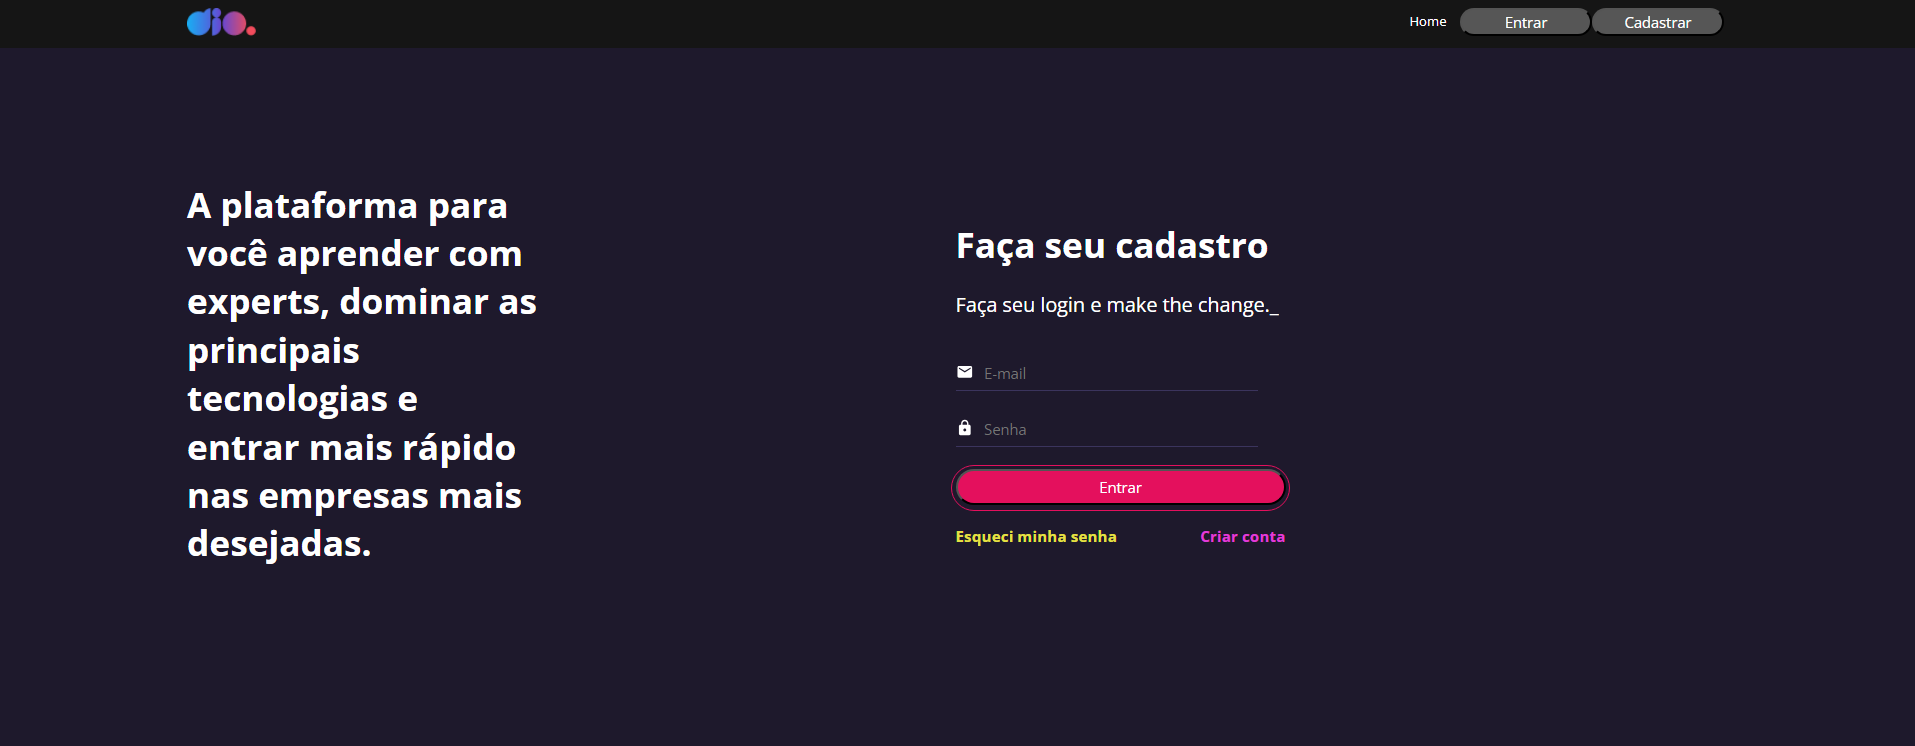
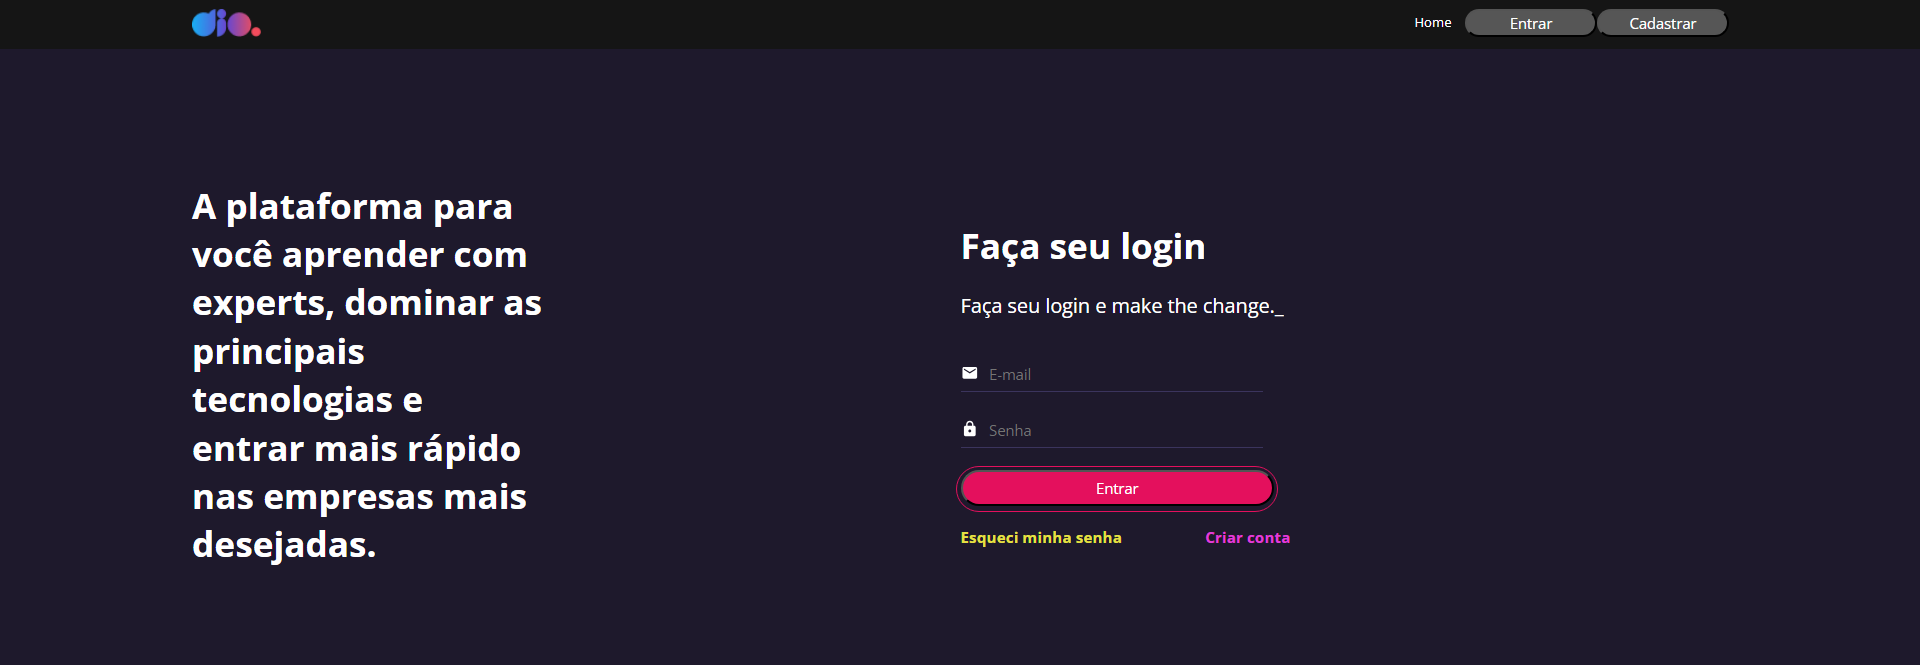
React App

diff --git a/src/pages/SignUp/index.jsx b/src/pages/SignUp/index.jsx
@@ -1,0 +1,68 @@
+import React from 'react';
+import { MdEmail, MdLock, MdPerson  } from 'react-icons/md';
+import { Header } from '../../components/Header';
+import {
+    Container, 
+    Column, 
+    Title, 
+    Wrapper, 
+    SubtitleLogin, 
+    TitleLogin, 
+    TermText,
+    LoginText  
+} from './styles';
+import { Button } from '../../components/Button';
+import { Input } from '../../components/Input';
+import { useForm } from 'react-hook-form';
+import { yupResolver } from '@hookform/resolvers/yup';
+import * as yup from "yup";
+import { useNavigate } from 'react-router-dom';
+
+const schema = yup.object({
+    name: yup.string().required('Campo obrigatório'),
+    email: yup.string().email('E-mail não é válido.').required('Campo obrigatório'),
+    password: yup.string().min(3, 'No mínimo 3 caracteres.').required('Campo obrigatório'),
+  }).required();
+
+const SignUp = () => {
+
+    const { control, formState: { errors } } = useForm({
+        resolver: yupResolver(schema),
+        mode: 'onChange', 
+        });
+    
+    const navigate = useNavigate();
+
+    const handleClickSignIn = () => {
+        navigate('/feed')
+    }
+
+    return (<>
+        <Header autenticado={false}/>
+        <Container>
+            <Column>
+                <Title>A plataforma para você aprender com experts, dominar 
+                    as principais tecnologias e entrar mais rápido nas empresas mais desejadas.
+                </Title>
+            </Column>
+            <Column>
+                <Wrapper>
+                    <TitleLogin>Comece agora grátis</TitleLogin>
+                    <SubtitleLogin>Crie sua conta e make the change._</SubtitleLogin>
+                    <form>
+                        <Input name="name" errorMessage={errors?.email?.message} control={control} placeholder="Nome completo" leftIcon={<MdPerson  />}/>
+                        <Input name="email" errorMessage={errors?.email?.message} control={control} placeholder="E-mail" leftIcon={<MdEmail />}/>
+                        <Input name="password" errorMessage={errors?.email?.message} control={control} placeholder="Senha" type="password" leftIcon={<MdLock />}/>
+                        <Button title="Criar minha conta" variant="secondary" type="submit" onClick={handleClickSignIn}/>
+                    </form>
+                    <TermText>Ao clicar em "criar minha conta grátis", declaro que 
+                        aceito as Políticas de Privacidade e os Termos de Uso da DIO.
+                    </TermText>
+                    <LoginText>Já tenho conta. <span>Fazer login</span></LoginText>
+                </Wrapper>
+            </Column>
+        </Container>
+        </>)
+}
+
+export { SignUp }

diff --git a/src/pages/Login/index.jsx b/src/pages/Login/index.jsx
@@ -10,20 +10,47 @@ import {
     SubtitleLogin, 
     Title, 
     TitleLogin, 
-    Wrapper,
+    Wrapper
   } from "./styles";
 import {Input} from '../../components/Input/';
 import React from "react";
 import { useNavigate } from 'react-router-dom';
+import { useForm } from 'react-hook-form';
+import { yupResolver } from '@hookform/resolvers/yup';
+import * as yup from "yup";
+import { api } from '../../services/api';
+
+const schema = yup.object({
+  email: yup.string().email('E-mail não é válido.').required('Campo obrigatório'),
+  password: yup.string().min(3, 'No mínimo 3 caracteres.').required('Campo obrigatório'),
+}).required();
+
 
  const Login = () => {
 
   const navigate = useNavigate();
 
-  const handleClickSignIn = () => {
-    navigate('/feed')
-  }
+  const { control, handleSubmit, formState: { errors } } = useForm({
+    resolver: yupResolver(schema),
+    mode: 'onChange', 
+  });
 
+  const onSubmit = async formData => {
+    try {
+      const { data } = await api.get(`/users?email=${formData.email}&senha=${formData.password}`);
+      console.log("Resposta da API:", data);
+  
+      if (data.length === 1) {
+        navigate('/feed');
+      } else {
+        alert('Email ou senha inválido');
+      }
+    } catch (error) {
+      console.error("Erro na requisição:", error);
+      alert('Houve um erro, tente novamente.');
+    }
+  };
+  
 
   return (<>
     <Header />
@@ -36,12 +63,12 @@ import { useNavigate } from 'react-router-dom';
       </Column>
       <Column>
         <Wrapper>
-          <TitleLogin>Faça seu cadastro</TitleLogin>
+          <TitleLogin>Faça seu login</TitleLogin>
           <SubtitleLogin>Faça seu login e make the change._</SubtitleLogin>
-          <form>
-              <Input placeholder="E-mail" leftIcon={<MdEmail />}/>
-              <Input placeholder="Senha" type="password" leftIcon={<MdLock />}/>
-              <Button title="Entrar" variant="secondary" onClick={handleClickSignIn} type="button"/>
+          <form onSubmit={handleSubmit(onSubmit)}>
+              <Input name="email" errorMessage={errors?.email?.message} control={control} placeholder="E-mail" leftIcon={<MdEmail />}/>
+              <Input name="password" errorMessage={errors?.password?.message} control={control} placeholder="Senha" type="password" leftIcon={<MdLock />}/>
+              <Button title="Entrar" variant="secondary" type="submit"/>
           </form>
           <Row>
             <EsqueciText>Esqueci minha senha</EsqueciText>

diff --git a/src/pages/SignUp/styles.js b/src/pages/SignUp/styles.js
@@ -1,0 +1,79 @@
+import styled from "styled-components";
+
+export const Container = styled.main`
+    width: 100%;
+    max-width: 80%;
+    margin: 0 auto;
+
+    display: flex;
+    flex-direction: row;
+    justify-content: space-between;
+    align-items: center;
+`
+
+export const Column = styled.div`
+    flex: 1;
+`
+
+export const Title = styled.h2`
+    width: 388px;
+    height: 308px;
+    gap: 0px;
+    opacity: 0px;
+
+    font-family: Open Sans;
+    font-size: 32px;
+    font-weight: 700;
+    line-height: 43.58px;
+    text-align: left;
+
+    color: #FFFFFF;
+
+`
+export const Wrapper = styled.div`
+    width: 330px;
+    height: 450px;
+    margin-top: 153px;
+    gap: 0px;
+    opacity: 0px
+`
+
+export const TitleLogin = styled.h2`
+    font-family: 'Open Sans';
+    font-style: normal;
+    font-weight: 700;
+    font-size: 32px;
+    margin-bottom: 8px;
+    line-height: 43.58px;
+`
+
+export const SubtitleLogin = styled.p`
+    font-family: 'Open Sans';
+    font-style: normal;
+    font-weight: 200;
+    font-size: 18px;
+    margin-bottom: 10px;
+    line-height: 25px;
+`
+export const TermText = styled.p`
+    font-family: 'Open Sans';
+    font-style: normal;
+    font-weight: 200;
+    font-size: 18px;
+    margin-top: 25px;
+    margin-bottom: 8px;
+`
+
+export const LoginText = styled.p`
+    font-family: Open Sans;
+    font-size: 14px;
+    font-weight: 700;
+    line-height: 19.07px;
+    text-align: left;
+
+    span {
+        color: #23DD7A;
+    }
+`
+
+

diff --git a/src/components/Input/index.jsx b/src/components/Input/index.jsx
@@ -1,13 +1,20 @@
-import {InputContainer, IconContainer, InputText} from './styles'
+import { InputContainer, IconContainer, InputText, ErrorText } from './styles'
+import { Controller } from 'react-hook-form';
 import React from 'react';
 
-const Input = ({leftIcon, name, ...rest}) => {
-  return (
+const Input = ({leftIcon, name, control, errorMessage, ...rest}) => {
+  return (<>
     <InputContainer>
         {leftIcon ? (<IconContainer>{leftIcon}</IconContainer>) : null}
-        <InputText {...rest}/>
+        <Controller
+        name={name}
+        control={control}
+        rules={{ required: true }}
+        render={({ field }) => <InputText {...field} {...rest}/>}
+        />
     </InputContainer>
-  )
+    {errorMessage ? <ErrorText>{errorMessage}</ErrorText> : null}
+  </>)
 }
 
 export { Input };

diff --git a/src/App.js b/src/App.js
@@ -1,6 +1,7 @@
 import { Home } from "./pages/Home";
 import { Login } from "./pages/Login";
-import { Feed } from "./pages/Feed"
+import { Feed } from "./pages/Feed";
+import { SignUp } from "./pages/SignUp";
 import React from "react";
 import { BrowserRouter as Router, Route, Routes} from 'react-router-dom';
 
@@ -11,6 +12,7 @@ function App() {
         <Route path="/" element={<Home />}/>
         <Route path="/login" element={<Login />}/>
         <Route path="/feed" element={<Feed />}/>
+        <Route path="/signup" element={<SignUp />}/>
       </Routes>
     </Router>
 )}

diff --git a/src/components/Button/styles.js b/src/components/Button/styles.js
@@ -8,7 +8,7 @@ export const ButtonContainer = styled.button`
     color: #FFFF;
     padding: 2px 12px;
     min-width: 120px;
-    width: 100%;
+    width: 95%;
 
     ${({variant}) => variant !== "primary" && css`
         min-width: 167px;

diff --git a/src/components/Input/styles.js b/src/components/Input/styles.js
@@ -22,3 +22,8 @@ export const InputText = styled.input`
     border: 0;
     height: 30px;
 `
+export const ErrorText = styled.p`
+    color: #FF0000;
+    font-size: 12px;
+    margin: 5px 0;
+`

diff --git a/src/pages/Home/index.jsx b/src/pages/Home/index.jsx
@@ -10,7 +10,7 @@ import React from "react";
   const navigate = useNavigate();
 
   const handleClickSignIn = () => {
-    navigate('/login')
+    navigate('/cadastro')
   }
 
   return (<>

diff --git a/src/pages/Login/styles.js b/src/pages/Login/styles.js
@@ -14,6 +14,7 @@ export const Container = styled.main`
 export const Wrapper = styled.div`
     max-width: 300px;
 `
+
 export const Column = styled.div`
     flex: 1;
 `

diff --git a/src/services/api.jsx b/src/services/api.jsx
@@ -1,0 +1,6 @@
+import axios from "axios";
+
+export const api = axios.create({
+    baseURL: "http://localhost:8001",
+
+});

diff --git a/README.md b/README.md
@@ -1,11 +1,13 @@
 ### DIO Clone
 
-DIO Clone is a project developed with React JS to create a web applications that simulates the DIO web pages: Home, Login and Feed. 
+DIO Clone is a project developed with React JS to create a web applications that simulates the DIO web pages: Home, Login, Sign Up and Feed. 
 
 ## Screenshot
 ![DIO Home](./src/assets/Home.png)
 
 ![DIO Login](./src/assets/login.png)
+
+![DIO Cadastro](./src/assets/cadastro.png)
 
 ![DIO Feed](./src/assets/feed.png)
 
@@ -18,7 +20,7 @@ This project was bootstrapped with [Create React App](https://github.com/faceboo
 1. Clone this repository.
 2. Install all dependencies using `npm install`.
 3. Run the application with `npm start` and open [http://localhost:3000](http://localhost:3000) to view it in your browser (if it doesn’t open automatically).
-4. You can navigate between pages by visiting the following URLs: [http://localhost:3000/login](http://localhost:3000/login), and [http://localhost:3000/feed](http://localhost:3000/feed). Alternatively, you can use the "Começar agora" and "Entrar" buttons.
+4. You can navigate between pages by visiting the following URLs: [http://localhost:3000/login](http://localhost:3000/login), [http://localhost:3000/signup](http://localhost:3000/signup) and [http://localhost:3000/feed](http://localhost:3000/feed). Alternatively, you can use the "Começar agora", "Entrar"(using the user data written in db.json) and "Criar minha conta" buttons.
 
 ## Prerequisites
 
